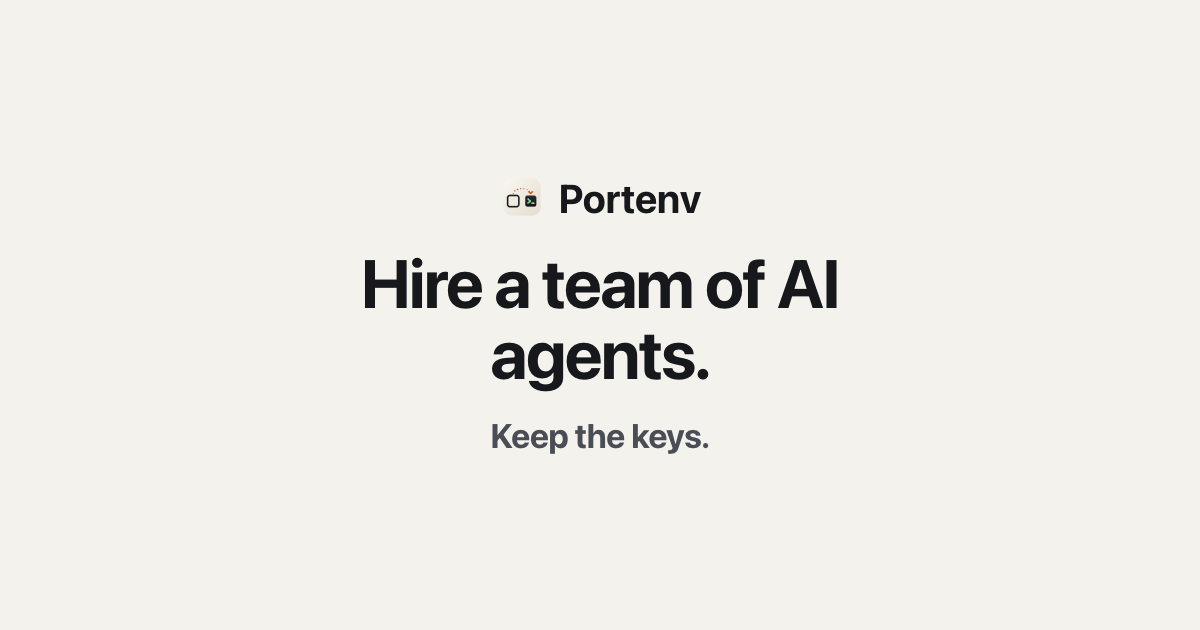
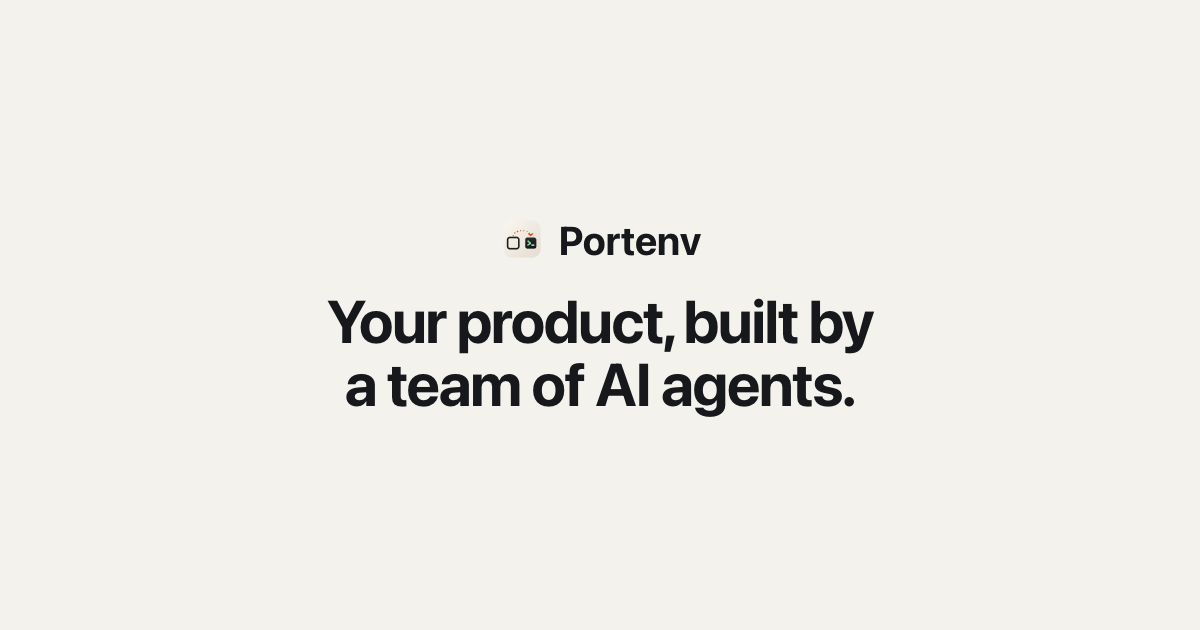
Home page: questions and answers, open-source wording, new hero (#12)
* Home page: questions and answers (R-0371)

Adds the owner's Questions section before the tester sign-up, as
native details/summary (no JavaScript), with matching FAQPage
structured data inline. Each answer is checked against the main
repository and reworded where the draft overstated (Docker Desktop,
Claude sign-in, GitHub, usage counting, what agents can read).

Open source (R-0372, ADR 0002): the whole public repository, the Mac
app included, is Apache-2.0; the pillar and llms files now say so.
llms-full.txt no longer says secrets are lent to one command (not
built). Stylesheet bumped to v=4.

Claude-Session: https://claude.ai/code/session_01PEHFfmAuJis3nT9YJmbt2j

* Hero: "Your product, built by a team of AI agents." (R-0373)

The owner's new headline and subline, verbatim, in the hero, the page
title, the meta, OG and Twitter text, the structured data and the llms
summaries. The social card is re-rendered with the new headline
(og-image.png?v=4).

Claude-Session: https://claude.ai/code/session_01PEHFfmAuJis3nT9YJmbt2j

---------

Changed region(s): [[0.2775, 0.2714, 0.74, 0.7238]]

diff --git a/index.html b/index.html
@@ -3,8 +3,8 @@
 <head>
 <meta charset="utf-8">
 <meta name="viewport" content="width=device-width, initial-scale=1">
-<title>Portenv — hire a team of AI agents, keep the keys</title>
-<meta name="description" content="Pick a team of AI agents, give each one a role, and let them build. They work in an encrypted workspace with only the access each job needs, and anything that matters waits for your yes.">
+<title>Portenv — your product, built by a team of AI agents</title>
+<meta name="description" content="Each agent gets a role, its own sealed workspace and its own copy of your code. They build, review and hand work to each other. Anything that matters waits for your yes.">
 <meta name="theme-color" content="#f4f2ec">
 <link rel="canonical" href="https://portenv.com/">
 <link rel="icon" href="/favicon.svg" type="image/svg+xml">
@@ -14,19 +14,19 @@
 <meta property="og:type" content="website">
 <meta property="og:url" content="https://portenv.com/">
 <meta property="og:locale" content="en_US">
-<meta property="og:title" content="Portenv — hire a team of AI agents, keep the keys">
-<meta property="og:description" content="Pick a team of AI agents, give each one a role, and let them build. They work in an encrypted workspace with only the access each job needs, and anything that matters waits for your yes.">
-<meta property="og:image" content="https://portenv.com/og-image.png?v=3">
+<meta property="og:title" content="Portenv — your product, built by a team of AI agents">
+<meta property="og:description" content="Each agent gets a role, its own sealed workspace and its own copy of your code. They build, review and hand work to each other. Anything that matters waits for your yes.">
+<meta property="og:image" content="https://portenv.com/og-image.png?v=4">
 <meta property="og:image:width" content="1200">
 <meta property="og:image:height" content="630">
 <meta property="og:image:type" content="image/png">
-<meta property="og:image:alt" content="Portenv: hire a team of AI agents. Keep the keys.">
+<meta property="og:image:alt" content="Portenv: Your product, built by a team of AI agents.">
 <meta name="twitter:card" content="summary_large_image">
-<meta name="twitter:title" content="Portenv — hire a team of AI agents, keep the keys">
-<meta name="twitter:description" content="Pick a team of AI agents, give each one a role, and let them build. They work in an encrypted workspace with only the access each job needs, and anything that matters waits for your yes.">
-<meta name="twitter:image" content="https://portenv.com/og-image.png?v=3">
-<meta name="twitter:image:alt" content="Portenv: hire a team of AI agents. Keep the keys.">
-<link rel="stylesheet" href="/styles.css?v=3">
+<meta name="twitter:title" content="Portenv — your product, built by a team of AI agents">
+<meta name="twitter:description" content="Each agent gets a role, its own sealed workspace and its own copy of your code. They build, review and hand work to each other. Anything that matters waits for your yes.">
+<meta name="twitter:image" content="https://portenv.com/og-image.png?v=4">
+<meta name="twitter:image:alt" content="Portenv: Your product, built by a team of AI agents.">
+<link rel="stylesheet" href="/styles.css?v=4">
 <script type="application/ld+json">
 {
   "@context": "https://schema.org",
@@ -57,11 +57,100 @@
       "@id": "https://portenv.com/#app",
       "name": "Portenv",
       "alternateName": "Portenv portable workspace",
-      "description": "Pick a team of AI agents, give each one a role, and let them build. They work in an encrypted workspace with only the access each job needs, and anything that matters waits for your yes.",
+      "description": "Each agent gets a role, its own sealed workspace and its own copy of your code. They build, review and hand work to each other. Anything that matters waits for your yes.",
       "applicationCategory": "DeveloperApplication",
       "operatingSystem": "macOS 26 or later",
       "isAccessibleForFree": true,
       "publisher": { "@id": "https://everydaymoney.eu/#organization" }
+    }
+  ]
+}
+</script>
+<script type="application/ld+json">
+{
+  "@context": "https://schema.org",
+  "@type": "FAQPage",
+  "@id": "https://portenv.com/#faq",
+  "mainEntity": [
+    {
+      "@type": "Question",
+      "name": "What is Portenv?",
+      "acceptedAnswer": {
+        "@type": "Answer",
+        "text": "A Mac app for running a team of AI coding agents on your own project. Your project gets an encrypted workspace, each agent works in it as its own user with its own role, and you approve what matters."
+      }
+    },
+    {
+      "@type": "Question",
+      "name": "Who is it for?",
+      "acceptedAnswer": {
+        "@type": "Answer",
+        "text": "Right now, independent developers and small teams who already use AI agents and want them to do more without handing over their machine."
+      }
+    },
+    {
+      "@type": "Question",
+      "name": "Which agents and models does it use?",
+      "acceptedAnswer": {
+        "@type": "Answer",
+        "text": "During testing, Claude Code with Anthropic's models. You can set the model for each agent in its agent file. Other agents aren't supported yet."
+      }
+    },
+    {
+      "@type": "Question",
+      "name": "Can the agents touch my Mac or my files?",
+      "acceptedAnswer": {
+        "@type": "Answer",
+        "text": "Not outside the workspace. Inside it, each agent has its own copy of your code: it can read your project but not change it, and it doesn't get your sign-ins, SSH keys or git credentials, so it can't push. It can still read files in your project that aren't in git, such as a .env file, so keep secrets out of the project for now. Its work comes back to you as a branch you review."
+      }
+    },
+    {
+      "@type": "Question",
+      "name": "Do I need my own AI subscription?",
+      "acceptedAnswer": {
+        "@type": "Answer",
+        "text": "Yes. Each agent signs in to Claude Code once, in its own terminal, with your own Claude or Anthropic Console account. Portenv doesn't resell model access. Sharing one sign-in between agents isn't in the tester build yet."
+      }
+    },
+    {
+      "@type": "Question",
+      "name": "Does my code leave my computer?",
+      "acceptedAnswer": {
+        "@type": "Answer",
+        "text": "Your workspace runs on your Mac, or on your own server if you move it there. Saves are encrypted on your Mac first. The agents send what they work on to Anthropic, as Claude Code does anywhere."
+      }
+    },
+    {
+      "@type": "Question",
+      "name": "What does it cost?",
+      "acceptedAnswer": {
+        "@type": "Answer",
+        "text": "Portenv is free during testing. Your agents' model use is billed to your own Claude or Anthropic account, as usual."
+      }
+    },
+    {
+      "@type": "Question",
+      "name": "What do I need to run it?",
+      "acceptedAnswer": {
+        "@type": "Answer",
+        "text": "A Mac with Apple silicon on macOS 26 or later, Docker Desktop installed and open (Portenv runs workspaces in it for now), and a Claude account for your agents. You don't need a GitHub account; linking GitHub from the app isn't in the tester build yet."
+      }
+    },
+    {
+      "@type": "Question",
+      "name": "Does Portenv collect data about me?",
+      "acceptedAnswer": {
+        "@type": "Answer",
+        "text": "No. The tester build collects no usage numbers. If Portenv ever counts usage, it will ask you first, and it will never include anything about your work."
+      }
+    },
+    {
+      "@type": "Question",
+      "name": "Is it open source?",
+      "acceptedAnswer": {
+        "@type": "Answer",
+        "text": "Yes. The Mac app, the runner, the in-workspace agent and the workspace format are all in one public repository under Apache-2.0."
+      }
     }
   ]
 }
@@ -90,8 +179,8 @@
 
   <section class="hero wrap" aria-labelledby="hero-title">
     <p class="eyebrow">For people who run AI agents on real code</p>
-    <h1 id="hero-title">Hire a team of AI agents. Keep the keys.</h1>
-    <p class="lede">Pick a team, give each agent a role, and let them build. Each one gets its own desk in an encrypted workspace, with only the access its job needs. Anything that matters waits for your yes.</p>
+    <h1 id="hero-title">Your product, built by a team of AI agents.</h1>
+    <p class="lede">Each agent gets a role, its own sealed workspace and its own copy of your code. They build, review and hand work to each other. Anything that matters waits for your yes.</p>
     <div class="btn-row">
       <a class="btn btn-primary" href="https://docs.google.com/forms/d/e/1FAIpQLScvbRFXLFoB_UQAdoc3QCLxRPPlnTTHlJjoBNdC1tQsp7a2Tw/viewform" rel="noopener">Join the tester program</a>
       <a class="btn btn-secondary" href="#team">See how a team works</a>
@@ -205,9 +294,55 @@
       </div>
       <div class="pillar">
         <svg width="28" height="28" viewBox="0 0 24 24" fill="none" stroke="currentColor" stroke-width="1.6" stroke-linecap="round" stroke-linejoin="round" aria-hidden="true"><path d="M8 7l-5 5 5 5"/><path d="M16 7l5 5-5 5"/></svg>
-        <h3>Open-source core</h3>
-        <p>The runner, the in-workspace agent and the format are Apache-2.0. Read the code that guards your work.</p>
+        <h3>Open source</h3>
+        <p>The Mac app, the runner, the in-workspace agent and the format are Apache-2.0, in one public repository. Read the code that guards your work.</p>
       </div>
+    </div>
+  </section>
+
+  <section id="faq" class="wrap section faq" aria-labelledby="faq-title">
+    <h2 id="faq-title" class="h2">Questions</h2>
+    <div class="faq-list">
+      <details class="faq-item">
+        <summary>What is Portenv?</summary>
+        <p>A Mac app for running a team of AI coding agents on your own project. Your project gets an encrypted workspace, each agent works in it as its own user with its own role, and you approve what matters.</p>
+      </details>
+      <details class="faq-item">
+        <summary>Who is it for?</summary>
+        <p>Right now, independent developers and small teams who already use AI agents and want them to do more without handing over their machine.</p>
+      </details>
+      <details class="faq-item">
+        <summary>Which agents and models does it use?</summary>
+        <p>During testing, Claude Code with Anthropic's models. You can set the model for each agent in its agent file. Other agents aren't supported yet.</p>
+      </details>
+      <details class="faq-item">
+        <summary>Can the agents touch my Mac or my files?</summary>
+        <p>Not outside the workspace. Inside it, each agent has its own copy of your code: it can read your project but not change it, and it doesn't get your sign-ins, SSH keys or git credentials, so it can't push. It can still read files in your project that aren't in git, such as a .env file, so keep secrets out of the project for now. Its work comes back to you as a branch you review.</p>
+      </details>
+      <details class="faq-item">
+        <summary>Do I need my own AI subscription?</summary>
+        <p>Yes. Each agent signs in to Claude Code once, in its own terminal, with your own Claude or Anthropic Console account. Portenv doesn't resell model access. Sharing one sign-in between agents isn't in the tester build yet.</p>
+      </details>
+      <details class="faq-item">
+        <summary>Does my code leave my computer?</summary>
+        <p>Your workspace runs on your Mac, or on your own server if you move it there. Saves are encrypted on your Mac first. The agents send what they work on to Anthropic, as Claude Code does anywhere.</p>
+      </details>
+      <details class="faq-item">
+        <summary>What does it cost?</summary>
+        <p>Portenv is free during testing. Your agents' model use is billed to your own Claude or Anthropic account, as usual.</p>
+      </details>
+      <details class="faq-item">
+        <summary>What do I need to run it?</summary>
+        <p>A Mac with Apple silicon on macOS 26 or later, Docker Desktop installed and open (Portenv runs workspaces in it for now), and a Claude account for your agents. You don't need a GitHub account; linking GitHub from the app isn't in the tester build yet.</p>
+      </details>
+      <details class="faq-item">
+        <summary>Does Portenv collect data about me?</summary>
+        <p>No. The tester build collects no usage numbers. If Portenv ever counts usage, it will ask you first, and it will never include anything about your work.</p>
+      </details>
+      <details class="faq-item">
+        <summary>Is it open source?</summary>
+        <p>Yes. The Mac app, the runner, the in-workspace agent and the workspace format are all in one public repository under Apache-2.0.</p>
+      </details>
     </div>
   </section>
 

diff --git a/styles.css b/styles.css
@@ -128,6 +128,22 @@ svg { flex-shrink: 0; }
 .pillars-light .pillar p { color: var(--text-2); }
 .pillars-light svg { color: var(--accent); }
 
+/* Questions */
+.faq { max-width: 860px; gap: 20px; }
+.faq .h2 { font-size: clamp(30px, 3.4vw, 44px); }
+.faq-list { display: flex; flex-direction: column; border-top: 1px solid var(--line-strong); }
+.faq-item { border-bottom: 1px solid var(--line-strong); }
+.faq-item summary {
+  display: flex; align-items: center; justify-content: space-between; gap: 16px;
+  min-height: 44px; padding: 14px 0; cursor: pointer; list-style: none;
+  font-size: 18px; font-weight: 600;
+}
+.faq-item summary::-webkit-details-marker { display: none; }
+.faq-item summary::after { content: "+"; flex: none; font-size: 24px; font-weight: 400; line-height: 1; color: var(--text-3); }
+.faq-item[open] summary::after { content: "\2212"; }
+.faq-item summary:focus-visible { outline: 3px solid var(--accent); outline-offset: 2px; border-radius: 6px; }
+.faq-item p { max-width: 68ch; padding: 0 0 18px; color: var(--text-2); }
+
 /* Tester sign-up */
 .download { border-top: 1px solid var(--line-strong); }
 .get-inner { padding-top: 80px; padding-bottom: 80px; display: flex; flex-wrap: wrap; align-items: center; gap: 24px; }

diff --git a/og/og-image.html b/og/og-image.html
@@ -22,7 +22,7 @@
   }
   .card { width: 560px; display: flex; flex-direction: column; align-items: center; gap: 26px; text-align: center; }
   .logo { display: flex; align-items: center; gap: 14px; font-size: 40px; font-weight: 700; letter-spacing: -0.01em; }
-  h1 { margin: 0; font-size: 68px; line-height: 1.05; font-weight: 700; letter-spacing: -0.025em; }
+  h1 { margin: 0; font-size: 60px; line-height: 1.05; font-weight: 700; letter-spacing: -0.025em; }
   p { margin: 0; font-size: 34px; line-height: 1.2; font-weight: 700; letter-spacing: -0.02em; color: #4a4d55; }
 </style>
 </head>
@@ -32,8 +32,7 @@
       <img class="brand-icon" src="../icon.svg" width="46" height="46" alt="">
       Portenv
     </div>
-    <h1>Hire a team of AI agents.</h1>
-    <p>Keep the keys.</p>
+    <h1>Your product, built by a team of AI agents.</h1>
   </div>
 </body>
 </html>

diff --git a/cli.html b/cli.html
@@ -25,7 +25,7 @@
 <meta name="twitter:description" content="Encrypted workspaces that move between your Mac, your servers and the cloud, and that your agents can work in, on your terms.">
 <meta name="twitter:image" content="https://portenv.com/og-image.png?v=1">
 <meta name="twitter:image:alt" content="Portenv: resume your work anywhere">
-<link rel="stylesheet" href="/styles.css?v=3">
+<link rel="stylesheet" href="/styles.css?v=4">
 </head>
 <body>
 

diff --git a/legal.html b/legal.html
@@ -25,7 +25,7 @@
 <meta name="twitter:description" content="Encrypted workspaces that move between your Mac, your servers and the cloud, and that your agents can work in, on your terms.">
 <meta name="twitter:image" content="https://portenv.com/og-image.png?v=2">
 <meta name="twitter:image:alt" content="Portenv: resume your work anywhere">
-<link rel="stylesheet" href="/styles.css?v=3">
+<link rel="stylesheet" href="/styles.css?v=4">
 </head>
 <body>
 

diff --git a/mcp.html b/mcp.html
@@ -25,7 +25,7 @@
 <meta name="twitter:description" content="Encrypted workspaces that move between your Mac, your servers and the cloud, and that your agents can work in, on your terms.">
 <meta name="twitter:image" content="https://portenv.com/og-image.png?v=1">
 <meta name="twitter:image:alt" content="Portenv: resume your work anywhere">
-<link rel="stylesheet" href="/styles.css?v=3">
+<link rel="stylesheet" href="/styles.css?v=4">
 </head>
 <body>
 

diff --git a/privacy.html b/privacy.html
@@ -25,7 +25,7 @@
 <meta name="twitter:description" content="Encrypted workspaces that move between your Mac, your servers and the cloud, and that your agents can work in, on your terms.">
 <meta name="twitter:image" content="https://portenv.com/og-image.png?v=2">
 <meta name="twitter:image:alt" content="Portenv: resume your work anywhere">
-<link rel="stylesheet" href="/styles.css?v=3">
+<link rel="stylesheet" href="/styles.css?v=4">
 </head>
 <body>
 

diff --git a/skill.html b/skill.html
@@ -25,7 +25,7 @@
 <meta name="twitter:description" content="Encrypted workspaces that move between your Mac, your servers and the cloud, and that your agents can work in, on your terms.">
 <meta name="twitter:image" content="https://portenv.com/og-image.png?v=1">
 <meta name="twitter:image:alt" content="Portenv: resume your work anywhere">
-<link rel="stylesheet" href="/styles.css?v=3">
+<link rel="stylesheet" href="/styles.css?v=4">
 </head>
 <body>
 

diff --git a/404.html b/404.html
@@ -8,7 +8,7 @@
 <link rel="icon" href="/favicon.svg" type="image/svg+xml">
 <link rel="icon" href="/favicon-64.png" type="image/png" sizes="64x64">
 <link rel="apple-touch-icon" href="/favicon-64.png">
-<link rel="stylesheet" href="/styles.css?v=3">
+<link rel="stylesheet" href="/styles.css?v=4">
 </head>
 <body>
 
